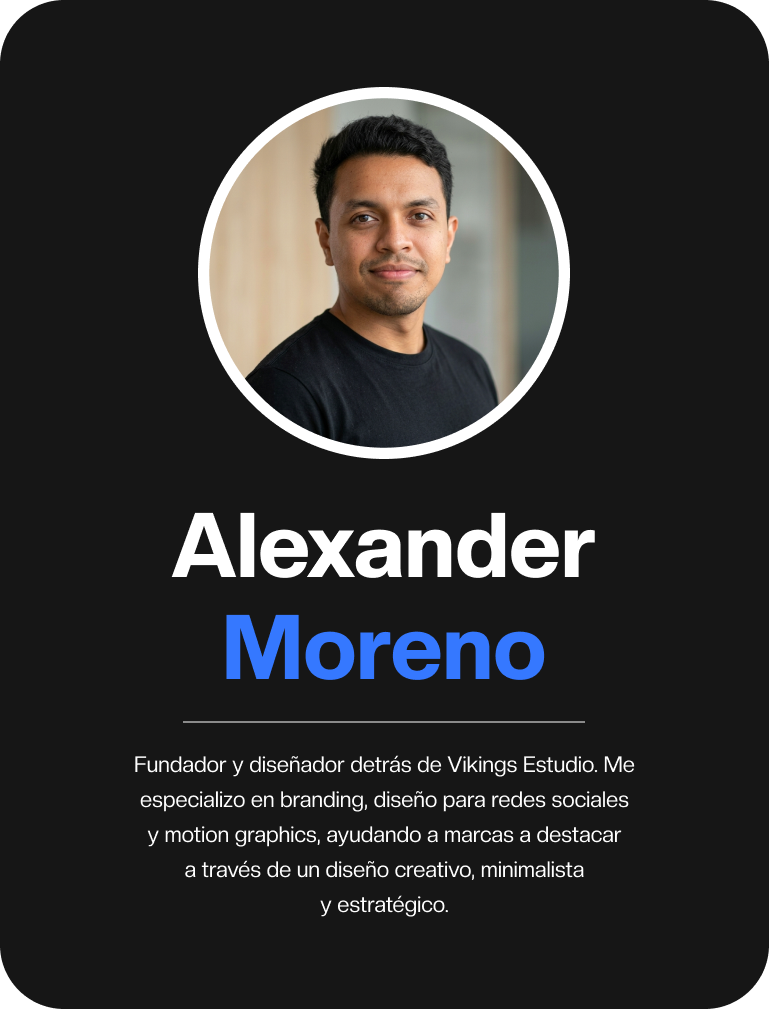
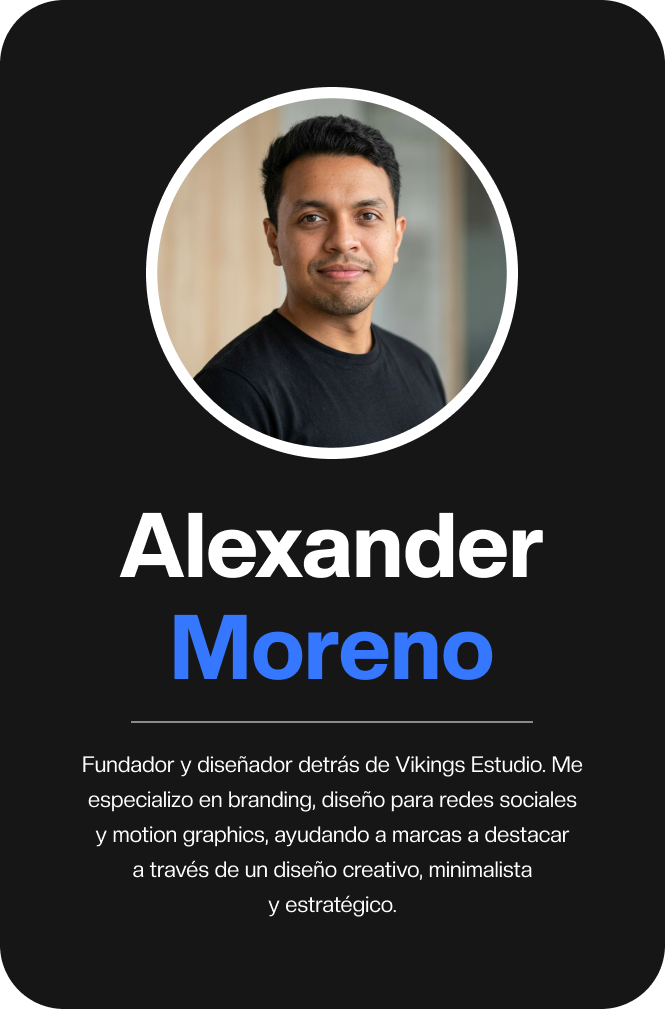
Mobile hero responsive + animations fix

diff --git a/components/About.tsx b/components/About.tsx
@@ -52,16 +52,19 @@ const BUTTON_Y = isMobile ? 0 : 90;
   const CONTENT_Y = 0;
 
   useEffect(() => {
-    if (open) {
-      document.body.style.overflow = "hidden";
-    } else {
-      document.body.style.overflow = "auto";
-    }
+  if (open) {
+    document.body.style.overflow = "hidden";
+    document.documentElement.style.overflow = "hidden";
+  } else {
+    document.body.style.overflow = "auto";
+    document.documentElement.style.overflow = "auto";
+  }
 
-    return () => {
-      document.body.style.overflow = "auto";
-    };
-  }, [open]);
+  return () => {
+    document.body.style.overflow = "auto";
+    document.documentElement.style.overflow = "auto";
+  };
+}, [open]);
 
   return (
     <section
@@ -70,14 +73,13 @@ const BUTTON_Y = isMobile ? 0 : 90;
     >
       {/* CONTENEDOR */}
       <motion.div
-        className="flex flex-col items-start md:items-start items-center px-6 md:px-0 text-center md:text-left"
+          className="flex flex-col items-center md:items-start px-6 md:px-0 text-center md:text-left w-full"
         initial={{ opacity: 0 }}
         whileInView={{ opacity: 1 }}
         viewport={{ once: true }}
-        style={{ x: CONTENT_X, y: CONTENT_Y }}
       >
         {/* ISO + TITULO */}
-        <div className="flex items-center gap-4 mb-8">
+        <div className="flex items-center gap-4 mb-8 justify-center md:justify-start">
           {/* ISO */}
           {/* ISO */}
 <motion.img
@@ -183,7 +185,7 @@ const BUTTON_Y = isMobile ? 0 : 90;
       <AnimatePresence>
         {open && (
           <motion.div
-            className="fixed inset-0 bg-black/70 backdrop-blur-md flex items-center justify-center z-[99999]"
+            className="fixed inset-0 bg-black/80 backdrop-blur-md flex items-center justify-center z-[99999]"
             initial={{ opacity: 0 }}
             animate={{ opacity: 1 }}
             exit={{ opacity: 0 }}
